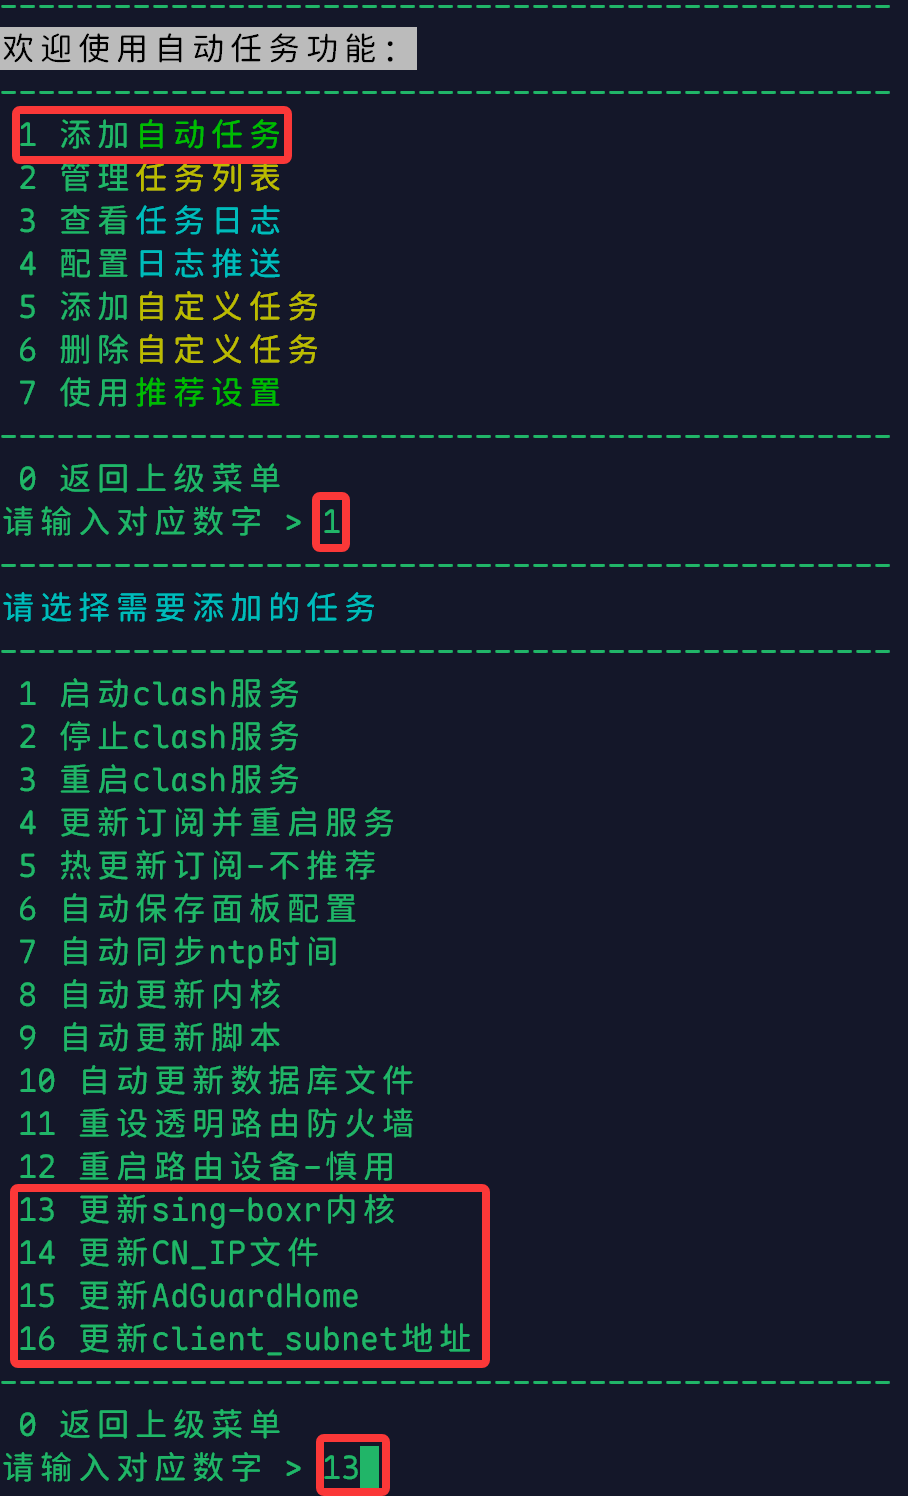
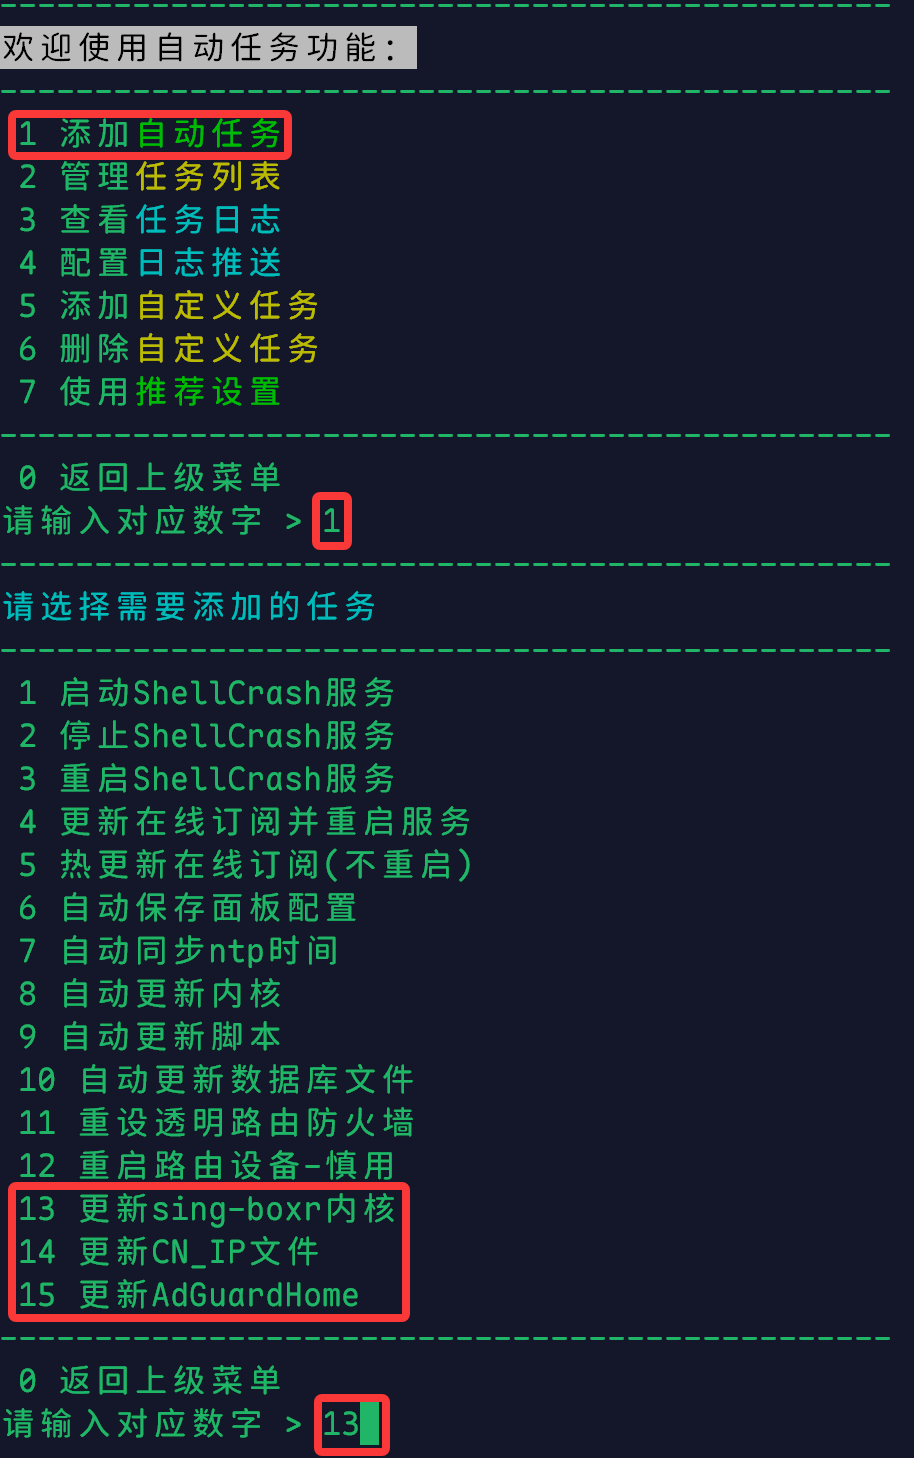
优化 ecs 和 client_subnet 配置

diff --git a/_posts/2024-08-21-dnsnoleaks-mihomo-geodata.md b/_posts/2024-08-21-dnsnoleaks-mihomo-geodata.md
@@ -23,7 +23,7 @@ geosite.dat 文件须包含 `fakeip-filter`、`cn` 和 `proxy`，推荐导入我
 ## 三、 DNS 防泄漏配置
 ### 1. DNS 模式为 `mix`（推荐）
 连接 SSH 后执行 `vi $CRASHDIR/yamls/user.yaml`，按一下 Ins 键（Insert 键），粘贴如下内容：
->推荐将 `ecs` 设置为当前网络的公网 IP 段，如当前网络公网 IP 为 `202.103.17.123`，可设置为 `202.103.17.0/24`（后续维护更新可直接执行命令 `sed -i -E "s/(ecs=)[0-9.]+\/[0-9]+/\1$(curl -s 4.ipw.cn | cut -d. -f1-3).0\/24/" $CRASHDIR/yamls/user.yaml`）
+>推荐将 `ecs` 设置为当前宽带运营商分配的默认 DNS（可进入光猫或路由器拨号页面查看，或者前往[公共 DNS 大全](https://toolb.cn/publicdns)查询）的 IP 段，如默认 DNS 为 `211.137.58.20`，可设置为 `211.137.58.0/24`
 {: .prompt-info }
 
 ```yaml
@@ -42,9 +42,9 @@ dns:
     - MATCH,real-ip
   respect-rules: true
   nameserver:
-    # 推荐将 `ecs` 设置为当前网络的公网 IP 段
-    - 'https://dns.google/dns-query#ecs=202.103.17.0/24'
-    - 'https://dns11.quad9.net/dns-query#ecs=202.103.17.0/24'
+    # 推荐将 `ecs` 设置为当前宽带运营商分配的默认 DNS 的 IP 段
+    - 'https://dns.google/dns-query#ecs=211.137.58.0/24'
+    - 'https://dns11.quad9.net/dns-query#ecs=211.137.58.0/24'
   proxy-server-nameserver: [system]
   direct-nameserver: [system]
 ```
@@ -81,7 +81,7 @@ dns:
 
 ### 3. DNS 模式为 `redir-host`
 连接 SSH 后执行 `vi $CRASHDIR/yamls/user.yaml`，按一下 Ins 键（Insert 键），粘贴如下内容：
->推荐将 `ecs` 设置为当前网络的公网 IP 段，如当前网络公网 IP 为 `202.103.17.123`，可设置为 `202.103.17.0/24`（后续维护更新可直接执行命令 `sed -i -E "s/(ecs=)[0-9.]+\/[0-9]+/\1$(curl -s 4.ipw.cn | cut -d. -f1-3).0\/24/" $CRASHDIR/yamls/user.yaml`）
+>推荐将 `ecs` 设置为当前宽带运营商分配的默认 DNS（可进入光猫或路由器拨号页面查看，或者前往[公共 DNS 大全](https://toolb.cn/publicdns)查询）的 IP 段，如默认 DNS 为 `211.137.58.20`，可设置为 `211.137.58.0/24`
 {: .prompt-info }
 
 ```yaml
@@ -95,9 +95,9 @@ dns:
   fake-ip-filter: ['+.*']
   respect-rules: true
   nameserver:
-    # 推荐将 `ecs` 设置为当前网络的公网 IP 段
-    - 'https://dns.google/dns-query#ecs=202.103.17.0/24'
-    - 'https://dns11.quad9.net/dns-query#ecs=202.103.17.0/24'
+    # 推荐将 `ecs` 设置为当前宽带运营商分配的默认 DNS 的 IP 段
+    - 'https://dns.google/dns-query#ecs=211.137.58.0/24'
+    - 'https://dns11.quad9.net/dns-query#ecs=211.137.58.0/24'
   proxy-server-nameserver: [system]
   direct-nameserver: [system]
 ```

diff --git a/_posts/2024-08-21-dnsnoleaks-mihomo-ruleset.md b/_posts/2024-08-21-dnsnoleaks-mihomo-ruleset.md
@@ -50,7 +50,7 @@ rule-providers:
 ## 三、 DNS 防泄漏配置
 ### 1. DNS 模式为 `mix`（推荐）
 连接 SSH 后执行 `vi $CRASHDIR/yamls/user.yaml`，按一下 Ins 键（Insert 键），粘贴如下内容：
->推荐将 `ecs` 设置为当前网络的公网 IP 段，如当前网络公网 IP 为 `202.103.17.123`，可设置为 `202.103.17.0/24`（后续维护更新可直接执行命令 `sed -i -E "s/(ecs=)[0-9.]+\/[0-9]+/\1$(curl -s 4.ipw.cn | cut -d. -f1-3).0\/24/" $CRASHDIR/yamls/user.yaml`）
+>推荐将 `ecs` 设置为当前宽带运营商分配的默认 DNS（可进入光猫或路由器拨号页面查看，或者前往[公共 DNS 大全](https://toolb.cn/publicdns)查询）的 IP 段，如默认 DNS 为 `211.137.58.20`，可设置为 `211.137.58.0/24`
 {: .prompt-info }
 
 ```yaml
@@ -69,9 +69,9 @@ dns:
     - MATCH,real-ip
   respect-rules: true
   nameserver:
-    # 推荐将 `ecs` 设置为当前网络的公网 IP 段
-    - 'https://dns.google/dns-query#ecs=202.103.17.0/24'
-    - 'https://dns11.quad9.net/dns-query#ecs=202.103.17.0/24'
+    # 推荐将 `ecs` 设置为当前宽带运营商分配的默认 DNS 的 IP 段
+    - 'https://dns.google/dns-query#ecs=211.137.58.0/24'
+    - 'https://dns11.quad9.net/dns-query#ecs=211.137.58.0/24'
   proxy-server-nameserver: [system]
   direct-nameserver: [system]
 ```
@@ -110,7 +110,7 @@ dns:
 
 ### 3. DNS 模式为 `redir-host`
 连接 SSH 后执行 `vi $CRASHDIR/yamls/user.yaml`，按一下 Ins 键（Insert 键），粘贴如下内容：
->推荐将 `ecs` 设置为当前网络的公网 IP 段，如当前网络公网 IP 为 `202.103.17.123`，可设置为 `202.103.17.0/24`（后续维护更新可直接执行命令 `sed -i -E "s/(ecs=)[0-9.]+\/[0-9]+/\1$(curl -s 4.ipw.cn | cut -d. -f1-3).0\/24/" $CRASHDIR/yamls/user.yaml`）
+>推荐将 `ecs` 设置为当前宽带运营商分配的默认 DNS（可进入光猫或路由器拨号页面查看，或者前往[公共 DNS 大全](https://toolb.cn/publicdns)查询）的 IP 段，如默认 DNS 为 `211.137.58.20`，可设置为 `211.137.58.0/24`
 {: .prompt-info }
 
 ```yaml
@@ -124,9 +124,9 @@ dns:
   fake-ip-filter: ['+.*']
   respect-rules: true
   nameserver:
-    # 推荐将 `ecs` 设置为当前网络的公网 IP 段
-    - 'https://dns.google/dns-query#ecs=202.103.17.0/24'
-    - 'https://dns11.quad9.net/dns-query#ecs=202.103.17.0/24'
+    # 推荐将 `ecs` 设置为当前宽带运营商分配的默认 DNS 的 IP 段
+    - 'https://dns.google/dns-query#ecs=211.137.58.0/24'
+    - 'https://dns11.quad9.net/dns-query#ecs=211.137.58.0/24'
   proxy-server-nameserver: [system]
   direct-nameserver: [system]
 ```

diff --git a/_posts/2024-12-04-share-windows-mihomo-ruleset.md b/_posts/2024-12-04-share-windows-mihomo-ruleset.md
@@ -304,7 +304,7 @@ proxy-groups:
 
 注：
 - 1. 本 `dns` 配置中，仅国外域名 `proxy` 走 `fake-ip`，直连域名（含国内域名 `cn`）走国内 DNS 解析，未知域名走国外 DNS 解析（有效解决了“心理 DNS 泄露问题”，详见《[搭载 mihomo 内核配置 DNS 不泄露教程-ruleset 方案](https://proxy-tutorials.dustinwin.us.kg/posts/dnsnoleaks-mihomo-ruleset/)》），且配置 `ecs` 提高了兼容性
-- 2. 推荐将 `ecs` 设置为当前网络的公网 IP 段，如当前网络公网 IP 为 `202.103.17.123`，可设置为 `202.103.17.0/24`
+- 2. 推荐将 `ecs` 设置为当前宽带运营商分配的默认 DNS（可进入光猫或路由器拨号页面查看，或者前往[公共 DNS 大全](https://toolb.cn/publicdns)查询）的 IP 段，如默认 DNS 为 `211.137.58.20`，可设置为 `211.137.58.0/24`
 
 ```yaml
 hosts: {miwifi.com: [192.168.31.1, 127.0.0.1]}
@@ -319,9 +319,9 @@ dns:
   fake-ip-filter: ['rule-set:proxy']
   respect-rules: true
   nameserver:
-    # 推荐将 `ecs` 设置为当前网络的公网 IP 段
-    - 'https://dns.google/dns-query#ecs=202.103.17.0/24'
-    - 'https://dns11.quad9.net/dns-query#ecs=202.103.17.0/24'
+    # 推荐将 `ecs` 设置为当前宽带运营商分配的默认 DNS 的 IP 段
+    - 'https://dns.google/dns-query#ecs=211.137.58.0/24'
+    - 'https://dns11.quad9.net/dns-query#ecs=211.137.58.0/24'
   proxy-server-nameserver: [system]
   direct-nameserver: [system]
   nameserver-policy: {'rule-set:ads': [rcode://success]}
@@ -360,7 +360,6 @@ Windows Registry Editor Version 5.00
   mkdir -p mihomo/profiles mihomo/ui
   curl -o mihomo/mihomo.exe -L https://ghfast.top/https://github.com/DustinWin/proxy-tools/releases/download/mihomo/mihomo-meta-windows-amd64v3.exe
   curl -o mihomo/profiles/config.yaml -L https://ghfast.top/{.yaml 配置文件直链}
-  sed -i -E "s/(ecs=)[0-9.]+\/[0-9]+/\1$(curl -s 4.ipw.cn | cut -d. -f1-3).0\/24/" mihomo/profiles/config.yaml
   echo "导入 mihomo 内核和配置文件成功"
 
   echo "安装 zashboard 面板..."
@@ -421,7 +420,6 @@ echo "结束 mihomo 相关进程成功"
 echo "更新 mihomo 内核和配置文件..."
 mv -f "$USERPROFILE/Downloads/mihomo.exe" .
 mv -f "$USERPROFILE/Downloads/config.yaml" profiles
-sed -i -E "s/(ecs=)[0-9.]+\/[0-9]+/\1$(curl -s 4.ipw.cn | cut -d. -f1-3).0\/24/" profiles/config.yaml
 echo "更新 mihomo 内核和配置文件成功"
 
 echo "等待 10 秒启动 mihomo 服务..."

diff --git a/_posts/2024-08-22-share-windows-singboxr-ruleset.md b/_posts/2024-08-22-share-windows-singboxr-ruleset.md
@@ -305,7 +305,7 @@ tags: [sing-box, sing-boxr, Windows, ruleset, rule_set, 分享]
 
 注：
 - 1. 本 `dns` 配置中，国外域名 `proxy` 走 `fake-ip`，私有网络 `private` 和国内域名 `cn` 走国内 DNS 解析，未知域名走国外 DNS 解析（有效解决了“心理 DNS 泄露问题”，详见《[搭载 sing-boxr 内核配置 DNS 不泄露教程-ruleset 方案](https://proxy-tutorials.dustinwin.us.kg/posts/dnsnoleaks-singboxr-ruleset/)》），且配置 `client_subnet` 提高了兼容性
-- 2. 推荐将 `client_subnet` 设置为当前网络的公网 IP 段，如当前网络公网 IP 为 `202.103.17.123`，可设置为 `202.103.17.0/24`
+- 2. 推荐将 `client_subnet` 设置为当前宽带运营商分配的默认 DNS（可进入光猫或路由器拨号页面查看，或者前往[公共 DNS 大全](https://toolb.cn/publicdns)查询）的 IP 段，如默认 DNS 为 `211.137.58.20`，可设置为 `211.137.58.0/24`
 
 ```json
 {
@@ -330,8 +330,8 @@ tags: [sing-box, sing-boxr, Windows, ruleset, rule_set, 分享]
     "strategy": "prefer_ipv4",
     "independent_cache": true,
     "reverse_mapping": true,
-    // 推荐将 `client_subnet` 设置为当前网络的公网 IP 段，如当前网络公网 IP 为 `202.103.17.123`，可设置为 `202.103.17.0/24`
-    "client_subnet": "202.103.17.0/24"
+    // 推荐将 `client_subnet` 设置为当前宽带运营商分配的默认 DNS 的 IP 段
+    "client_subnet": "211.137.58.0/24"
   }
 }
 ```
@@ -369,7 +369,6 @@ Windows Registry Editor Version 5.00
   mkdir -p sing-box/ui
   curl -o sing-box/sing-box.exe -L https://ghfast.top/https://github.com/DustinWin/proxy-tools/releases/download/sing-box/sing-box-ref1nd-dev-windows-amd64v3.exe
   curl -o sing-box/config.json -L https://ghfast.top/{.json 配置文件直链}
-  sed -i -E "s/(\"client_subnet\": \")[0-9.]+\/[0-9]+/\1$(curl -s 4.ipw.cn | cut -d. -f1-3).0\/24/" sing-box/config.json
   echo "导入 sing-boxr 内核和配置文件成功"
 
   echo "安装 zashboard 面板..."
@@ -430,7 +429,6 @@ echo "结束 sing-boxr 相关进程成功"
 echo "更新 sing-boxr 内核和配置文件..."
 mv -f "$USERPROFILE/Downloads/sing-box.exe" .
 mv -f "$USERPROFILE/Downloads/config.json" .
-sed -i -E "s/(\"client_subnet\": \")[0-9.]+\/[0-9]+/\1$(curl -s 4.ipw.cn | cut -d. -f1-3).0\/24/" config.json
 echo "更新 sing-boxr 内核和配置文件成功"
 
 echo "等待 10 秒启动 sing-boxr 服务..."

diff --git a/_posts/2024-08-21-share-shellcrash-mihomo-ruleset.md b/_posts/2024-08-21-share-shellcrash-mihomo-ruleset.md
@@ -294,7 +294,7 @@ dns:
 
 注：
 - 1. 本 `dns` 配置中，仅国外域名 `proxy` 走 `fake-ip`，直连域名（含国内域名 `cn`）走国内 DNS 解析，未知域名走国外 DNS 解析（有效解决了“心理 DNS 泄露问题”，详见《[搭载 mihomo 内核配置 DNS 不泄露教程-ruleset 方案](https://proxy-tutorials.dustinwin.us.kg/posts/dnsnoleaks-mihomo-ruleset/)》），且配置 `ecs` 提高了兼容性
-- 2. 推荐将 `ecs` 设置为当前网络的公网 IP 段，如当前网络公网 IP 为 `202.103.17.123`，可设置为 `202.103.17.0/24`（后续维护更新可直接执行命令 `sed -i -E "s/(ecs=)[0-9.]+\/[0-9]+/\1$(curl -s 4.ipw.cn | cut -d. -f1-3).0\/24/" $CRASHDIR/yamls/user.yaml`）
+- 2. 推荐将 `ecs` 设置为当前宽带运营商分配的默认 DNS（可进入光猫或路由器拨号页面查看，或者前往[公共 DNS 大全](https://toolb.cn/publicdns)查询）的 IP 段，如默认 DNS 为 `211.137.58.20`，可设置为 `211.137.58.0/24`
 
 ```yaml
 hosts: {miwifi.com: [192.168.31.1, 127.0.0.1]}
@@ -310,19 +310,12 @@ dns:
   fake-ip-filter: ['rule-set:proxy']
   respect-rules: true
   nameserver:
-    # 推荐将 `ecs` 设置为当前网络的公网 IP 段
-    - 'https://dns.google/dns-query#ecs=202.103.17.0/24'
-    - 'https://dns11.quad9.net/dns-query#ecs=202.103.17.0/24'
+    # 推荐将 `ecs` 设置为当前宽带运营商分配的默认 DNS 的 IP 段
+    - 'https://dns.google/dns-query#ecs=211.137.58.0/24'
+    - 'https://dns11.quad9.net/dns-query#ecs=211.137.58.0/24'
   proxy-server-nameserver: [system]
   direct-nameserver: [system]
   nameserver-policy: {'rule-set:ads': [rcode://success]}
-```
-
-**新增定时任务**  
-连接 SSH 后执行命令 `vi $CRASHDIR/task/task.user`，按一下 Ins 键（Insert 键），粘贴如下内容：
-
-```shell
-203#sed -i -E "s/(ecs=)[0-9.]+\/[0-9]+/\1$(curl -s 4.ipw.cn | cut -d. -f1-3).0\/24/" $CRASHDIR/yamls/user.yaml >/dev/null 2>&1#更新ecs地址
 ```
 
 ---

diff --git a/_posts/2024-08-21-share-shellcrash-mihomo-geodata.md b/_posts/2024-08-21-share-shellcrash-mihomo-geodata.md
@@ -197,7 +197,7 @@ dns:
 
 注：
 - 1. 本 `dns` 配置中，仅国外域名 `proxy` 走 `fake-ip`，直连域名（含国内域名 `cn`）走国内 DNS 解析，未知域名走国外 DNS 解析（有效解决了“心理 DNS 泄露问题”，详见《[搭载 mihomo 内核配置 DNS 不泄露教程-geodata 方案](https://proxy-tutorials.dustinwin.us.kg/posts/dnsnoleaks-mihomo-geodata/)》），且配置 `ecs` 提高了兼容性
-- 2. 推荐将 `ecs` 设置为当前网络的公网 IP 段，如当前网络公网 IP 为 `202.103.17.123`，可设置为 `202.103.17.0/24`（后续维护更新可直接执行命令 `sed -i -E "s/(ecs=)[0-9.]+\/[0-9]+/\1$(curl -s 4.ipw.cn | cut -d. -f1-3).0\/24/" $CRASHDIR/yamls/user.yaml`）
+- 2. 推荐将 `ecs` 设置为当前宽带运营商分配的默认 DNS（可进入光猫或路由器拨号页面查看，或者前往[公共 DNS 大全](https://toolb.cn/publicdns)查询）的 IP 段，如默认 DNS 为 `211.137.58.20`，可设置为 `211.137.58.0/24`
 
 ```yaml
 hosts: {miwifi.com: [192.168.31.1, 127.0.0.1]}
@@ -213,19 +213,12 @@ dns:
   fake-ip-filter: ['geosite:proxy']
   respect-rules: true
   nameserver:
-    # 推荐将 `ecs` 设置为当前网络的公网 IP 段
-    - 'https://dns.google/dns-query#ecs=202.103.17.0/24'
-    - 'https://dns11.quad9.net/dns-query#ecs=202.103.17.0/24'
+    # 推荐将 `ecs` 设置为当前宽带运营商分配的默认 DNS 的 IP 段
+    - 'https://dns.google/dns-query#ecs=211.137.58.0/24'
+    - 'https://dns11.quad9.net/dns-query#ecs=211.137.58.0/24'
   proxy-server-nameserver: [system]
   direct-nameserver: [system]
   nameserver-policy: {'geosite:ads': [rcode://success]}
-```
-
-**新增定时任务**  
-连接 SSH 后执行命令 `vi $CRASHDIR/task/task.user`，按一下 Ins 键（Insert 键），粘贴如下内容：
-
-```shell
-204#sed -i -E "s/(ecs=)[0-9.]+\/[0-9]+/\1$(curl -s 4.ipw.cn | cut -d. -f1-3).0\/24/" $CRASHDIR/yamls/user.yaml >/dev/null 2>&1#更新ecs地址
 ```
 
 ---

diff --git a/_posts/2024-08-21-share-shellcrashadguardhome-mihomo-ruleset.md b/_posts/2024-08-21-share-shellcrashadguardhome-mihomo-ruleset.md
@@ -303,7 +303,7 @@ dns:
 
 注：
 - 1. 本 `dns` 配置中，仅国外域名 `proxy` 走 `fake-ip`，`fakeip-filter` 和  `cn` 走国内 DNS 解析，未知域名走国外 DNS 解析（有效解决了“心理 DNS 泄露问题”，详见《[搭载 mihomo 内核配置 DNS 不泄露教程-ruleset 方案](https://proxy-tutorials.dustinwin.us.kg/posts/dnsnoleaks-mihomo-ruleset/)》），且配置 `ecs` 提高了兼容性
-- 2. 推荐将 `ecs` 设置为当前网络的公网 IP 段，如当前网络公网 IP 为 `202.103.17.123`，可设置为 `202.103.17.0/24`（后续维护更新可直接执行命令 `sed -i -E "s/(ecs=)[0-9.]+\/[0-9]+/\1$(curl -s 4.ipw.cn | cut -d. -f1-3).0\/24/" $CRASHDIR/yamls/user.yaml`）
+- 2. 推荐将 `ecs` 设置为当前宽带运营商分配的默认 DNS（可进入光猫或路由器拨号页面查看，或者前往[公共 DNS 大全](https://toolb.cn/publicdns)查询）的 IP 段，如默认 DNS 为 `211.137.58.20`，可设置为 `211.137.58.0/24`
 
 ```yaml
 hosts: {miwifi.com: [192.168.31.1, 127.0.0.1]}
@@ -322,18 +322,11 @@ dns:
     - MATCH,real-ip
   respect-rules: true
   nameserver:
-    # 推荐将 `ecs` 设置为当前网络的公网 IP 段
-    - 'https://dns.google/dns-query#ecs=202.103.17.0/24'
-    - 'https://dns11.quad9.net/dns-query#ecs=202.103.17.0/24'
+    # 推荐将 `ecs` 设置为当前宽带运营商分配的默认 DNS 的 IP 段
+    - 'https://dns.google/dns-query#ecs=211.137.58.0/24'
+    - 'https://dns11.quad9.net/dns-query#ecs=211.137.58.0/24'
   proxy-server-nameserver: [system]
   direct-nameserver: [system]
-```
-
-**新增定时任务**  
-连接 SSH 后执行命令 `vi $CRASHDIR/task/task.user`，按一下 Ins 键（Insert 键），粘贴如下内容：
-
-```shell
-204#sed -i -E "s/(ecs=)[0-9.]+\/[0-9]+/\1$(curl -s 4.ipw.cn | cut -d. -f1-3).0\/24/" $CRASHDIR/yamls/user.yaml >/dev/null 2>&1#更新ecs地址
 ```
 
 ---

diff --git a/_posts/2024-08-22-share-shellcrash-singboxr-ruleset.md b/_posts/2024-08-22-share-shellcrash-singboxr-ruleset.md
@@ -297,7 +297,7 @@ sc
 
 注：
 - 1. 本 `dns` 配置中，国外域名 `proxy` 走 `fake-ip`，私有网络 `private` 和国内域名 `cn` 走国内 DNS 解析，未知域名走国外 DNS 解析（有效解决了“心理 DNS 泄露问题”，详见《[搭载 sing-boxr 内核配置 DNS 不泄露教程-ruleset 方案](https://proxy-tutorials.dustinwin.us.kg/posts/dnsnoleaks-singboxr-ruleset/)》），且配置 `client_subnet` 提高了兼容性
-- 2. 推荐将 `client_subnet` 设置为当前网络的公网 IP 段，如当前网络公网 IP 为 `202.103.17.123`，可设置为 `202.103.17.0/24`
+- 2. 推荐将 `client_subnet` 设置为当前宽带运营商分配的默认 DNS（可进入光猫或路由器拨号页面查看，或者前往[公共 DNS 大全](https://toolb.cn/publicdns)查询）的 IP 段，如默认 DNS 为 `211.137.58.20`，可设置为 `211.137.58.0/24`
 
 ```json
 {
@@ -322,17 +322,10 @@ sc
     "strategy": "prefer_ipv4",
     "independent_cache": true,
     "reverse_mapping": true,
-    // 推荐将 `client_subnet` 设置为当前网络的公网 IP 段，如当前网络公网 IP 为 `202.103.17.123`，可设置为 `202.103.17.0/24`
-    "client_subnet": "202.103.17.0/24"
+    // 推荐将 `client_subnet` 设置为当前宽带运营商分配的默认 DNS 的 IP 段
+    "client_subnet": "211.137.58.0/24"
   }
 }
-```
-
-**新增定时任务**  
-连接 SSH 后执行命令 `vi $CRASHDIR/task/task.user`，按一下 Ins 键（Insert 键），粘贴如下内容：
-
-```shell
-203#sed -i -E "s/(\"client_subnet\": \")[0-9.]+\/[0-9]+/\1$(curl -s 4.ipw.cn | cut -d. -f1-3).0\/24/" $CRASHDIR/jsons/dns.json >/dev/null 2>&1#更新client_subnet地址
 ```
 
 ---

diff --git a/_posts/2024-08-22-share-shellcrashadguardhome-singboxr-ruleset.md b/_posts/2024-08-22-share-shellcrashadguardhome-singboxr-ruleset.md
@@ -306,7 +306,7 @@ sc
 
 注：
 - 1. 本 `dns` 配置中，国外域名 `proxy` 走 `fake-ip`，私有网络 `private` 和国内域名 `cn` 走国内 DNS 解析，未知域名走国外 DNS 解析（有效解决了“心理 DNS 泄露问题”，详见《[搭载 sing-boxr 内核配置 DNS 不泄露教程-ruleset 方案](https://proxy-tutorials.dustinwin.us.kg/posts/dnsnoleaks-singboxr-ruleset/)》），且配置 `client_subnet` 提高了兼容性
-- 2. 推荐将 `client_subnet` 设置为当前网络的公网 IP 段，如当前网络公网 IP 为 `202.103.17.123`，可设置为 `202.103.17.0/24`
+- 2. 推荐将 `client_subnet` 设置为当前宽带运营商分配的默认 DNS（可进入光猫或路由器拨号页面查看，或者前往[公共 DNS 大全](https://toolb.cn/publicdns)查询）的 IP 段，如默认 DNS 为 `211.137.58.20`，可设置为 `211.137.58.0/24`
 
 ```json
 {
@@ -330,17 +330,10 @@ sc
     "strategy": "prefer_ipv4",
     "independent_cache": true,
     "reverse_mapping": true,
-    // 推荐将 `client_subnet` 设置为当前网络的公网 IP 段，如当前网络公网 IP 为 `202.103.17.123`，可设置为 `202.103.17.0/24`
-    "client_subnet": "202.103.17.0/24"
+    // 推荐将 `client_subnet` 设置为当前宽带运营商分配的默认 DNS 的 IP 段
+    "client_subnet": "211.137.58.0/24"
   }
 }
-```
-
-**新增定时任务**  
-连接 SSH 后执行命令 `vi $CRASHDIR/task/task.user`，按一下 Ins 键（Insert 键），粘贴如下内容：
-
-```shell
-204#sed -i -E "s/(\"client_subnet\": \")[0-9.]+\/[0-9]+/\1$(curl -s 4.ipw.cn | cut -d. -f1-3).0\/24/" $CRASHDIR/jsons/dns.json >/dev/null 2>&1#更新client_subnet地址
 ```
 
 ---

diff --git a/_posts/2024-08-21-share-android-mihomo-ruleset.md b/_posts/2024-08-21-share-android-mihomo-ruleset.md
@@ -302,7 +302,7 @@ proxy-groups:
 
 注：
 - 1. 本 `dns` 配置中，仅国外域名 `proxy` 走 `fake-ip`，直连域名（含国内域名 `cn`）走国内 DNS 解析，未知域名走国外 DNS 解析（有效解决了“心理 DNS 泄露问题”，详见《[搭载 mihomo 内核配置 DNS 不泄露教程-ruleset 方案](https://proxy-tutorials.dustinwin.us.kg/posts/dnsnoleaks-mihomo-ruleset/)》），且配置 `ecs` 提高了兼容性
-- 2. 推荐将 `ecs` 设置为当前网络的公网 IP 段，如当前网络公网 IP 为 `202.103.17.123`，可设置为 `202.103.17.0/24`
+- 2. 推荐将 `ecs` 设置为当前宽带运营商分配的默认 DNS（可进入光猫或路由器拨号页面查看，或者前往[公共 DNS 大全](https://toolb.cn/publicdns)查询）的 IP 段，如默认 DNS 为 `211.137.58.20`，可设置为 `211.137.58.0/24`
 
 ```yaml
 hosts: {miwifi.com: [192.168.31.1, 127.0.0.1]}
@@ -317,9 +317,9 @@ dns:
   fake-ip-filter: ['rule-set:proxy']
   respect-rules: true
   nameserver:
-    # 推荐将 `ecs` 设置为当前网络的公网 IP 段
-    - 'https://dns.google/dns-query#ecs=202.103.17.0/24'
-    - 'https://dns11.quad9.net/dns-query#ecs=202.103.17.0/24'
+    # 推荐将 `ecs` 设置为当前宽带运营商分配的默认 DNS 的 IP 段
+    - 'https://dns.google/dns-query#ecs=211.137.58.0/24'
+    - 'https://dns11.quad9.net/dns-query#ecs=211.137.58.0/24'
   proxy-server-nameserver: [system]
   direct-nameserver: [system]
   nameserver-policy: {'rule-set:ads': [rcode://success]}

diff --git a/_posts/2024-08-21-share-android-singboxr-ruleset.md b/_posts/2024-08-21-share-android-singboxr-ruleset.md
@@ -307,7 +307,7 @@ tags: [sing-box, sing-boxr, Android, ruleset, rule_set, 分享]
 
 注：
 - 1. 本 `dns` 配置中，国外域名 `proxy` 走 `fake-ip`，私有网络 `private` 和国内域名 `cn` 走国内 DNS 解析，未知域名走国外 DNS 解析（有效解决了“心理 DNS 泄露问题”，详见《[搭载 sing-boxr 内核配置 DNS 不泄露教程-ruleset 方案](https://proxy-tutorials.dustinwin.us.kg/posts/dnsnoleaks-singboxr-ruleset/)》），且配置 `client_subnet` 提高了兼容性
-- 2. 推荐将 `client_subnet` 设置为当前网络的公网 IP 段，如当前网络公网 IP 为 `202.103.17.123`，可设置为 `202.103.17.0/24`
+- 2. 推荐将 `client_subnet` 设置为当前宽带运营商分配的默认 DNS（可进入光猫或路由器拨号页面查看，或者前往[公共 DNS 大全](https://toolb.cn/publicdns)查询）的 IP 段，如默认 DNS 为 `211.137.58.20`，可设置为 `211.137.58.0/24`
 
 ```json
 {
@@ -332,8 +332,8 @@ tags: [sing-box, sing-boxr, Android, ruleset, rule_set, 分享]
     "strategy": "prefer_ipv4",
     "independent_cache": true,
     "reverse_mapping": true,
-    // 推荐将 `client_subnet` 设置为当前网络的公网 IP 段，如当前网络公网 IP 为 `202.103.17.123`，可设置为 `202.103.17.0/24`
-    "client_subnet": "202.103.17.0/24"
+    // 推荐将 `client_subnet` 设置为当前宽带运营商分配的默认 DNS 的 IP 段
+    "client_subnet": "211.137.58.0/24"
   }
 }
 ```
